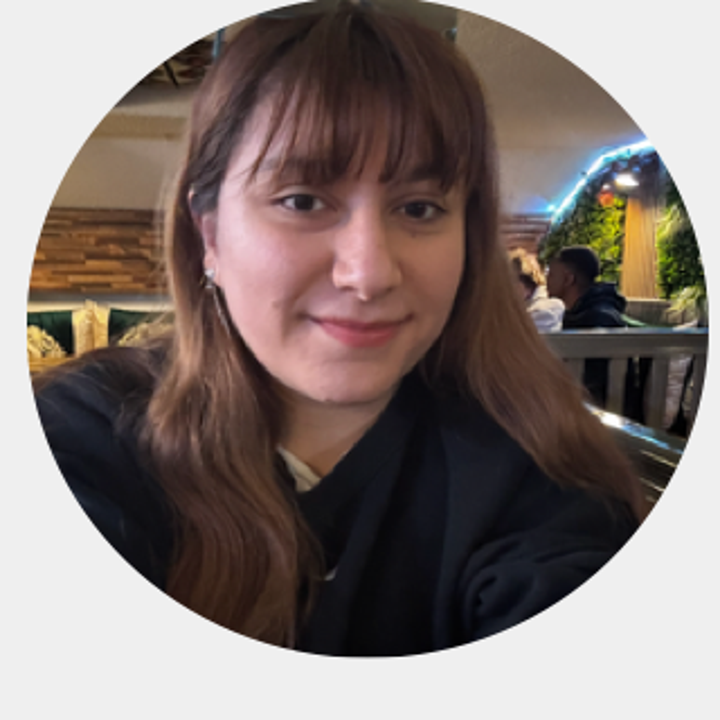
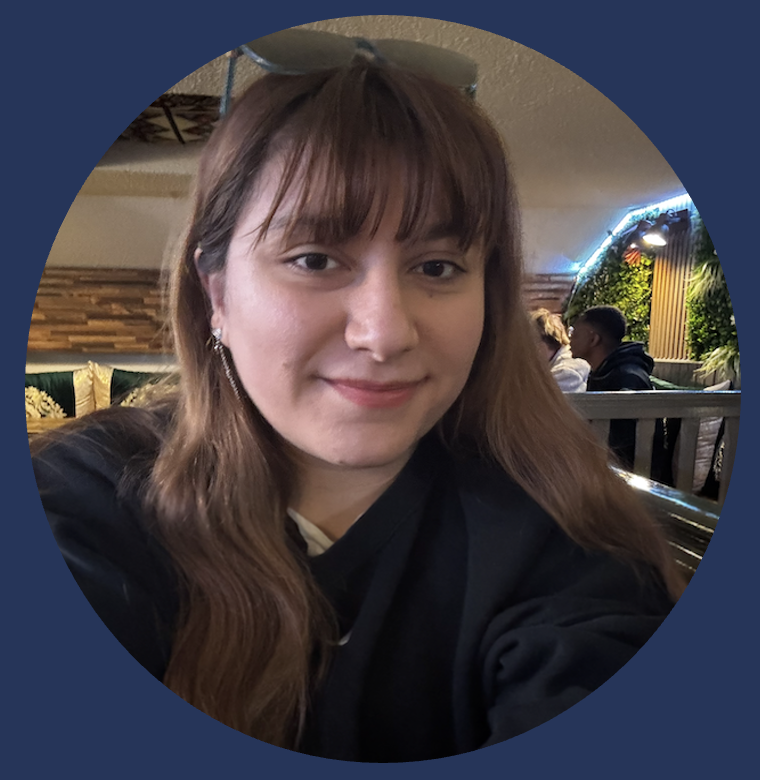
Refine home hero layout and profile photo

diff --git a/assets/css/index.css b/assets/css/index.css
@@ -1,86 +1,50 @@
-main section {
+main section > header {
   display: grid;
-  grid-template-columns: minmax(0, 1.35fr) minmax(260px, 0.75fr);
-  gap: 40px;
-  align-items: center;
+  grid-template-columns: 180px minmax(0, 1fr);
+  gap: 28px;
+  align-items: start;
 }
 
-main article:first-child {
-  min-width: 0;
-  padding: 0;
-  border: 0;
-  background: transparent;
+main section > header figure {
+  margin: 0;
 }
 
-main article:first-child h1 {
-  max-width: 11ch;
+main section > header img {
+  display: block;
+  width: 100%;
+  aspect-ratio: 1 / 1;
+  object-fit: cover;
+  border-radius: 20px;
 }
 
-main article:first-child > p:last-of-type {
-  max-width: 58ch;
-  margin-top: 20px;
+main section > header h1 {
+  align-self: center;
+  max-width: none;
+  font-size: clamp(3.2rem, 7vw, 6rem);
+}
+
+main section > p {
+  max-width: 62ch;
+  margin-top: 28px;
   color: var(--muted);
   font-size: 1.05rem;
-  line-height: 1.7;
+  line-height: 1.8;
 }
 
 .actions {
   display: flex;
   flex-wrap: wrap;
   gap: 14px;
-  margin-top: 32px;
-}
-
-main ul {
-  display: grid;
-  gap: 16px;
-  margin-top: 32px;
-  list-style: none;
-}
-
-main li {
-  padding: 16px 18px;
-  border: 1px solid var(--line);
-  border-radius: 20px;
-  background: #f8f1e8;
-  font-weight: 600;
-}
-
-main aside {
-  display: grid;
-  gap: 20px;
-}
-
-main aside figure,
-main aside article {
-  margin: 0;
-}
-
-main aside figure {
-  padding: 14px;
-  border: 1px solid var(--line);
-  border-radius: 32px;
-  background: linear-gradient(180deg, rgba(255, 255, 255, 0.9), rgba(248, 241, 232, 0.95));
-}
-
-main aside img {
-  display: block;
-  width: 100%;
-  aspect-ratio: 1 / 1;
-  object-fit: cover;
-  border-radius: 24px;
-}
-
-main aside article {
-  text-align: center;
+  margin-top: 28px;
 }
 
 @media (max-width: 860px) {
-  main section {
+  main section > header {
     grid-template-columns: 1fr;
+    gap: 20px;
   }
 
-  main article:first-child h1 {
-    max-width: none;
+  main section > header figure {
+    width: min(220px, 100%);
   }
 }

diff --git a/index.php b/index.php
@@ -17,40 +17,21 @@
     <header></header>
     <main>
       <section>
-        <article>
-          <header>
-            <p>Etudiante en informatique</p>
-            <h1>Cemrenur Keles, a la recherche d'une annee de cesure utile et formatrice.</h1>
-          </header>
-          <p>
-            Je recherche un emploi a temps plein pour mettre a profit mon annee
-            de cesure. J'aime les projets concrets, le travail en equipe et le
-            developpement d'applications utiles, du frontend au backend.
-          </p>
-          <div class="actions">
-            <a href="./contact.php">Me contacter</a>
-            <a href="./experiences.php">Voir mon parcours</a>
-          </div>
-          <ul>
-            <li>Licence en informatique a l'Universite de Strasbourg</li>
-            <li>Experiences associatives, evenementielles et techniques</li>
-            <li>Developpement full stack, Unity, Java, Python et web</li>
-          </ul>
-        </article>
-        <aside>
+        <header>
           <figure>
             <img src="./assets/img/profile-photo.png" alt="Portrait de Cemrenur Keles" />
           </figure>
-          <article>
-            <header>
-              <p>Presentation</p>
-            </header>
-            <p>
-              Etudiante motivee, curieuse et polyvalente, prete a s'investir
-              dans une experience professionnelle concrete.
-            </p>
-          </article>
-        </aside>
+          <h1>Cemrenur Keles</h1>
+        </header>
+        <p>
+          Je recherche un emploi a temps plein pour mettre a profit mon annee
+          de cesure. J'aime les projets concrets, le travail en equipe et le
+          developpement d'applications utiles, du frontend au backend.
+        </p>
+        <div class="actions">
+          <a href="./contact.php">Me contacter</a>
+          <a href="./experiences.php">Voir mon parcours</a>
+        </div>
       </section>
     </main>
     <script src="./js/app.js"></script>
